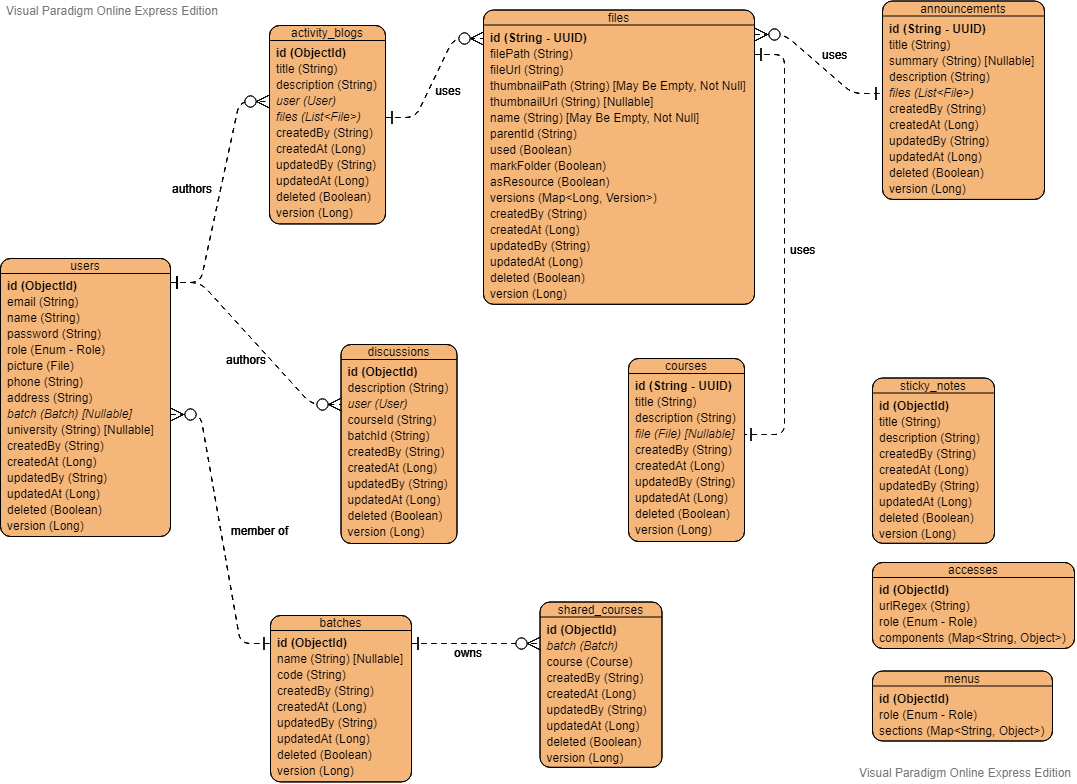
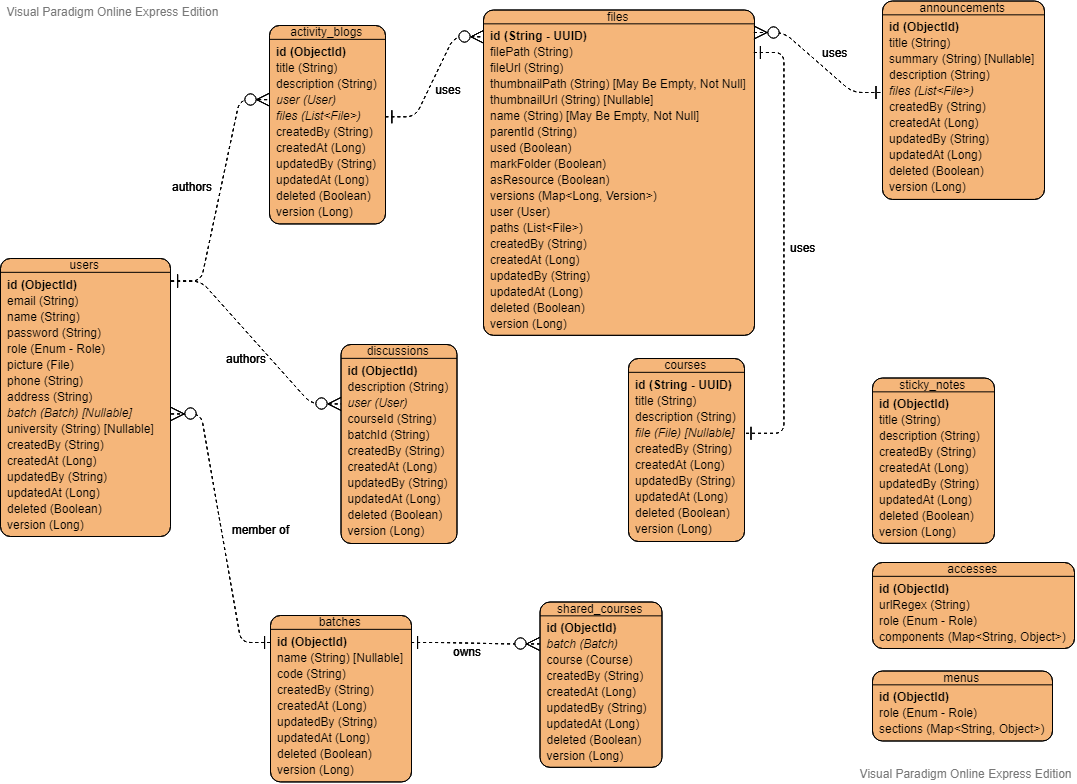
[bugfix/CORE-67] Fix integration bugs (#231)
* Removed old index containing blog description and added replacements

* Removed exclusion of FileHelper

* Added migration for changing fieldname file to files in announcement

* Updated ERD to latest model implementation

diff --git a/function-data-migration/src/main/java/com/future/function/data/migration/change/log/DataMigration_014.java b/function-data-migration/src/main/java/com/future/function/data/migration/change/log/DataMigration_014.java
@@ -1,0 +1,40 @@
+package com.future.function.data.migration.change.log;
+
+import com.future.function.model.util.constant.DocumentName;
+import com.github.mongobee.changeset.ChangeLog;
+import com.github.mongobee.changeset.ChangeSet;
+import com.mongodb.client.MongoDatabase;
+import com.mongodb.client.model.IndexOptions;
+import com.mongodb.client.model.Indexes;
+
+import static com.future.function.data.migration.constant.IndexName.ACTIVITY_BLOG_TITLE;
+import static com.future.function.data.migration.constant.IndexName.ACTIVITY_BLOG_TITLE_DESCRIPTION;
+import static com.future.function.data.migration.constant.IndexName.ACTIVITY_BLOG_USER_ID_TITLE;
+import static com.future.function.data.migration.constant.IndexName.ACTIVITY_BLOG_USER_ID_TITLE_DESCRIPTION;
+
+@ChangeLog(order = "014")
+public class DataMigration_014 {
+
+  @ChangeSet(author = "jonathan",
+             id = "updateActivityBlogIndexesContainingDescription",
+             order = "0001")
+  public void updateActivityBlogCollectionIndexesContainingDescription(MongoDatabase mongoDatabase) {
+
+    mongoDatabase.getCollection(DocumentName.ACTIVITY_BLOG)
+      .dropIndex(ACTIVITY_BLOG_TITLE_DESCRIPTION.name());
+    mongoDatabase.getCollection(DocumentName.ACTIVITY_BLOG)
+      .dropIndex(ACTIVITY_BLOG_USER_ID_TITLE_DESCRIPTION.name());
+
+    mongoDatabase.getCollection(DocumentName.ACTIVITY_BLOG)
+      .createIndex(
+        Indexes.ascending(ACTIVITY_BLOG_TITLE.getFields()),
+        new IndexOptions().name(ACTIVITY_BLOG_TITLE.name())
+      );
+    mongoDatabase.getCollection(DocumentName.ACTIVITY_BLOG)
+      .createIndex(
+        Indexes.ascending(ACTIVITY_BLOG_USER_ID_TITLE.getFields()),
+        new IndexOptions().name(ACTIVITY_BLOG_USER_ID_TITLE.name())
+      );
+  }
+
+}

diff --git a/function-data-migration/src/main/java/com/future/function/data/migration/change/log/DataMigration_015.java b/function-data-migration/src/main/java/com/future/function/data/migration/change/log/DataMigration_015.java
@@ -1,0 +1,41 @@
+package com.future.function.data.migration.change.log;
+
+import com.future.function.model.util.constant.DocumentName;
+import com.github.mongobee.changeset.ChangeLog;
+import com.github.mongobee.changeset.ChangeSet;
+import com.mongodb.client.MongoDatabase;
+import com.mongodb.client.model.Filters;
+import org.bson.Document;
+import org.bson.conversions.Bson;
+
+@ChangeLog(order = "015")
+public class DataMigration_015 {
+
+  @ChangeSet(author = "jonathan",
+             id = "changeFieldFileToFilesInAnnouncementCollection",
+             order = "0001")
+  public void changeFieldFileToFilesInAnnouncementCollection(
+    MongoDatabase mongoDatabase
+  ) {
+
+    Bson filter = Filters.or(
+      Filters.exists("file"), Filters.not(Filters.eq("file", null)));
+
+    mongoDatabase.getCollection(DocumentName.ANNOUNCEMENT)
+      .find(filter)
+      .iterator()
+      .forEachRemaining(document -> setFiles(mongoDatabase, document));
+  }
+
+  private void setFiles(
+    MongoDatabase mongoDatabase, Document document
+  ) {
+
+    document.append("files", document.get("file"));
+    document.remove("file");
+
+    mongoDatabase.getCollection(DocumentName.ANNOUNCEMENT)
+      .replaceOne(Filters.eq("_id", document.get("_id")), document);
+  }
+
+}

diff --git a/function-model/src/main/java/com/future/function/model/util/constant/FieldName.java b/function-model/src/main/java/com/future/function/model/util/constant/FieldName.java
@@ -82,7 +82,7 @@ public interface FieldName {
     public static final String NAME = "name";
 
     public static final String PARENT_ID = "parentId";
-    
+
     public static final String PATHS = "paths";
 
     public static final String USED = "used";
@@ -92,7 +92,7 @@ public interface FieldName {
     public static final String AS_RESOURCE = "asResource";
 
     public static final String VERSIONS = "versions";
-    
+
     public static final String USER = "user";
 
   }
@@ -106,7 +106,7 @@ public interface FieldName {
 
     public static final String DESCRIPTION = "description";
 
-    public static final String FILE = "file";
+    public static final String FILES = "files";
 
   }
 

diff --git a/function-model/src/main/java/com/future/function/model/entity/feature/core/Announcement.java b/function-model/src/main/java/com/future/function/model/entity/feature/core/Announcement.java
@@ -25,21 +25,21 @@ import java.util.List;
 @EqualsAndHashCode(callSuper = true)
 @Document(collection = DocumentName.ANNOUNCEMENT)
 public class Announcement extends BaseEntity {
-  
+
   @Id
   private String id;
-  
+
   @Field(FieldName.Announcement.TITLE)
   private String title;
-  
+
   @Field(FieldName.Announcement.SUMMARY)
   private String summary;
-  
+
   @Field(FieldName.Announcement.DESCRIPTION)
   private String description;
-  
+
   @DBRef
-  @Field(FieldName.Announcement.FILE)
+  @Field(FieldName.Announcement.FILES)
   private List<FileV2> fileV2s;
-  
+
 }

diff --git a/function-data-migration/src/main/java/com/future/function/data/migration/constant/IndexName.java b/function-data-migration/src/main/java/com/future/function/data/migration/constant/IndexName.java
@@ -50,14 +50,19 @@ public enum IndexName {
     FieldName.ActivityBlog.USER + ".$" + FieldName.BaseEntity.ID,
     FieldName.ActivityBlog.TITLE, FieldName.ActivityBlog.DESCRIPTION
   ),
+  ACTIVITY_BLOG_TITLE(FieldName.ActivityBlog.TITLE),
+  ACTIVITY_BLOG_USER_ID_TITLE(
+    FieldName.ActivityBlog.USER + ".$" + FieldName.BaseEntity.ID,
+    FieldName.ActivityBlog.TITLE
+  ),
   MENU_ROLE(FieldName.Menu.ROLE),
   ACCESS_ROLE(FieldName.Access.ROLE);
-  
+
   private String[] fields;
-  
+
   IndexName(String... fields) {
-    
+
     this.fields = fields;
   }
-  
+
 }
